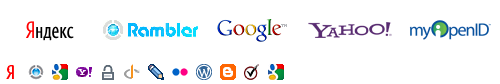
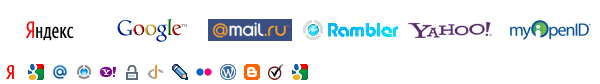
Fixes sprites for openid template.

Changed region(s): [[0.18, 0.2143, 0.99, 0.5], [0.0, 0.7619, 0.57, 0.9524], [0.03, 0.2381, 0.15, 0.5]]

diff --git a/protected/widgets/openidProviders/assets/js/openid-jquery-ru.js b/protected/widgets/openidProviders/assets/js/openid-jquery-ru.js
@@ -10,13 +10,18 @@ var providers_large = {
 		name : 'Яндекс',
 		url : 'http://openid.yandex.ru'
 	},
+	google : {
+        name : 'Google',
+        url : 'https://www.google.com/accounts/o8/id'
+    },
+	mailru : {
+        name : 'Mail.ru',
+        label : 'Введите ваше имя пользователя на Mail.ru.',
+        url : 'http://{username}.id.mail.ru/'
+    },
 	rambler : {
 		name : 'Рамблер',
 		url : 'http://www.rambler.ru'
-	},
-	google : {
-		name : 'Google',
-		url : 'https://www.google.com/accounts/o8/id'
 	},
 	yahoo : {
 		name : 'Yahoo',
@@ -26,7 +31,7 @@ var providers_large = {
 		name : 'MyOpenID',
 		label : 'Введите ваше имя пользователя на MyOpenID.',
 		url : 'http://{username}.myopenid.com/'
-	}
+	},
 };
 
 var providers_small = {
@@ -52,17 +57,17 @@ var providers_small = {
 	},
 	blogger : {
 		name : 'Blogger',
-		label : 'Ваш Blogger аккаунт',
+		label : 'Ваш Blogger аккаунт.',
 		url : 'http://{username}.blogspot.com/'
 	},
 	verisign : {
 		name : 'Verisign',
-		label : 'Ваше имя пользователя на Verisign',
+		label : 'Ваше имя пользователя на Verisign.',
 		url : 'http://{username}.pip.verisignlabs.com/'
 	},
 	google_profile : {
 		name : 'Профиль Google',
-		label : 'Введите ваше имя на Google Profile',
+		label : 'Введите ваше имя на Google Profile.',
 		url : 'http://www.google.com/profiles/{username}'
 	}
 };

diff --git a/protected/views/user/openid.html b/protected/views/user/openid.html
@@ -6,7 +6,7 @@
 <h4>Здравствуйте. Под данной учетной записью ({{ userinfo.email|e }}) Вы вошли в первый раз.<br>
 Для продолжения выберите один из вариантов:</h4>
 <br>
-<form action='' method='post' class='forms left' style='width:36%;'>
+<form action='' method='post' class='forms left' style='width:43%;'>
 	<h4>Создать новый аккаунт:</h4>
 	<br>
     <p class='label'>Логин</p>
@@ -19,7 +19,7 @@
 	<br>
 	<input type='submit' value='Создать'>
 </form>
-<form action='' method='post' class='forms right' style='width:50%;'>
+<form action='' method='post' class='forms right' style='width:43%;'>
     <h4>Связать с существующим аккаунтом:</h4>
 	<br>
     <p class='label'>Логин</p>

diff --git a/protected/widgets/openidProviders/assets/js/openid-jquery.js b/protected/widgets/openidProviders/assets/js/openid-jquery.js
@@ -166,8 +166,7 @@ var openid = {
 			style = 'background:#FFF url('+this.img_path+'openid-inputicon.gif) no-repeat scroll 0 50%; padding-left:18px;';
 		}
 		html += '<input id="'+id+'" type="text" style="'+style+'" name="'+id+'" value="'+value+'" />' + 
-					'<input id="openid_submit" type="submit" value="'+this.signin_text+'"/>';
-		
+					'&nbsp;<input id="openid_submit" type="submit" value="'+this.signin_text+'"/>';
 		input_area.empty();
 		input_area.append(html);
 

diff --git a/protected/widgets/openidProviders/assets/js/openid-jquery-en.js b/protected/widgets/openidProviders/assets/js/openid-jquery-en.js
@@ -28,7 +28,7 @@ var providers_large = {
 		name : 'OpenID',
 		label : 'Enter your OpenID.',
 		url : null
-	}
+	},
 };
 
 var providers_small = {

diff --git a/protected/controllers/UserController.php b/protected/controllers/UserController.php
@@ -161,15 +161,8 @@ class UserController extends Controller
 						elseif(Users::authenticateByOidIdentity($user_openid['identity'])){
 							$this->redirect(array('main/index'));
 						}
-						
-						//var_dump($user_openid['identity']);
-						//exit();
-						
-						
+
 						Yii::app()->session['user_openid'] = $user_openid;
-						// Попытаться авторизовать по e-mail
-						// Попытаться авторизовать по identity
-						
 						$this->redirect(array('user/openid'));
 		        	}
 					else{

diff --git a/protected/models/Users.php b/protected/models/Users.php
@@ -173,6 +173,7 @@ class Users extends CActiveRecord
         return false;
 	}
 	
+	
 	public function attachOidIdentity($identity, $user_id){
         return Yii::app()->db->createCommand()->insert('users_openid', array(
             'identity' => $identity,

diff --git a/protected/widgets/openidProviders/views/main-ru.php b/protected/widgets/openidProviders/views/main-ru.php
@@ -4,7 +4,6 @@
 	</div>
 	<div id="openid_input_area">
 	    <input id="openid_identifier" name="openid_identifier" type="text" value="http://" />
-		&nbsp;
 	    <input id="openid_submit" type="submit" value="Войти"/>
 	</div>
 	<noscript>
